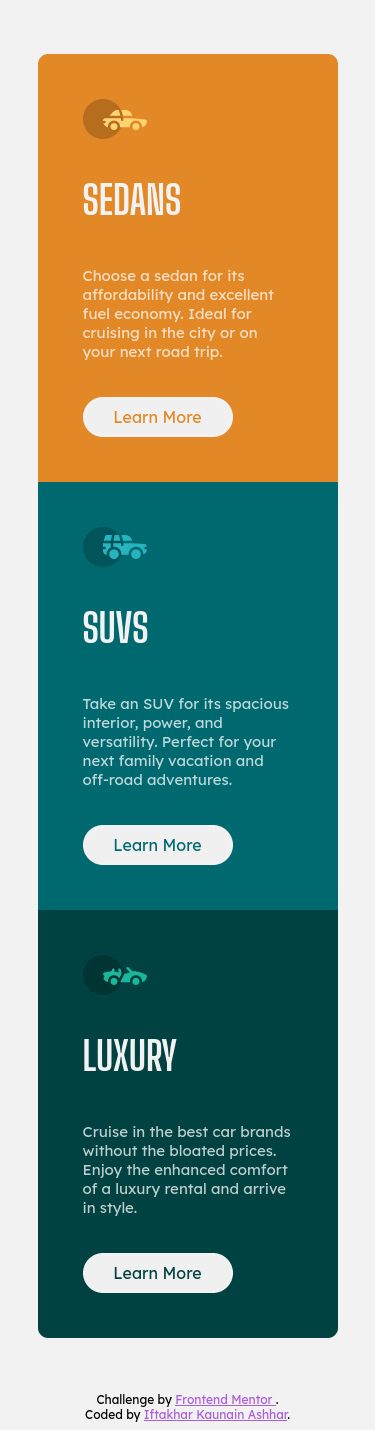
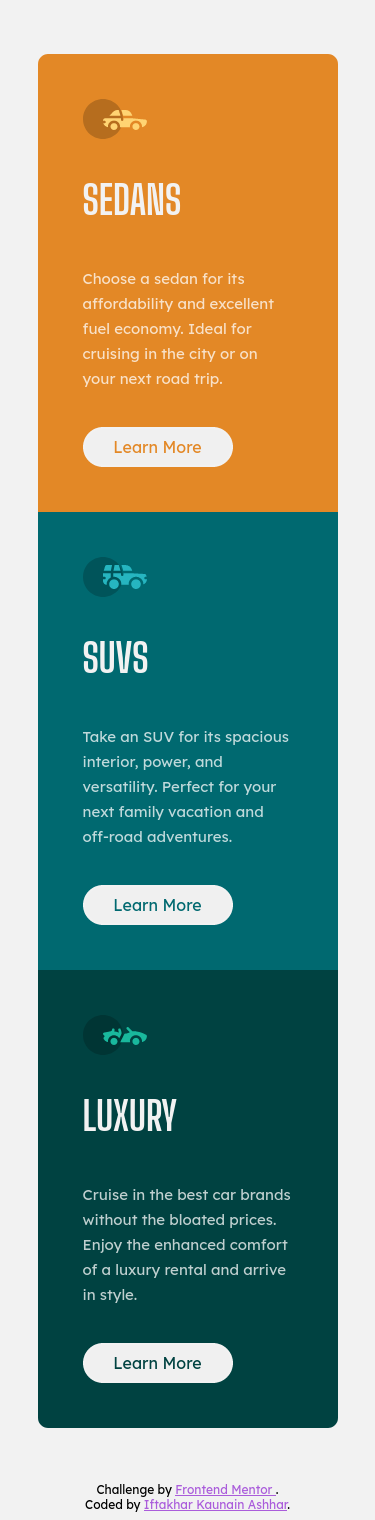
CSS Update

diff --git a/css/style.css b/css/style.css
@@ -20,6 +20,7 @@ main {
 .content {
 	font-family: 'Lexend Deca', sans-serif;
 	color: hsla(0, 0%, 100%, 0.75);
+	line-height: 25px;
 }
 .headings {
 	font-family: 'Big Shoulders Display', cursive;
@@ -77,13 +78,13 @@ a {
 
 @media all and (min-width: 1024px) {
 	main {
-		margin: 12% auto;
-		width: 60%;
+		margin: 10% auto;
+		width: 65%;
 		grid-template-columns: repeat(3, auto);
 		max-width: none;
 	}
 	.content {
-		margin: 0 auto 15% auto;
+		margin: 0 auto 30% auto;
 	}
 	.sedans {
 		border-radius: 10px 0 0 10px;
